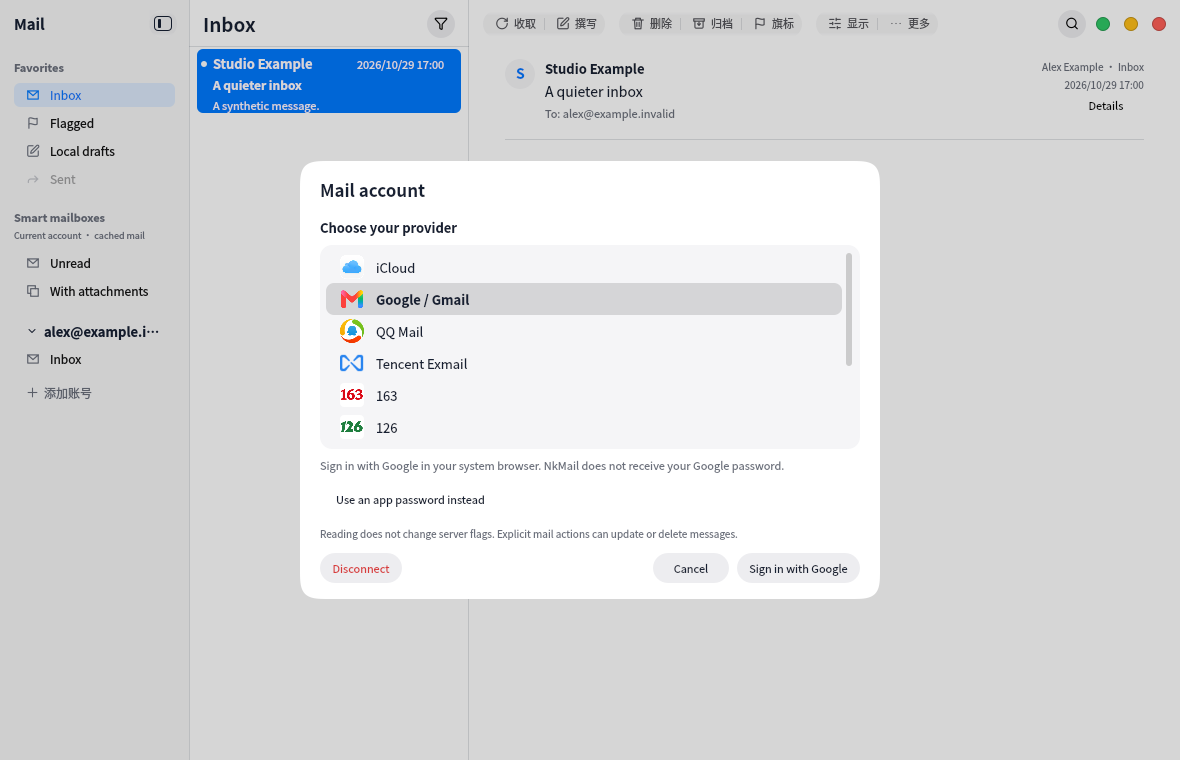
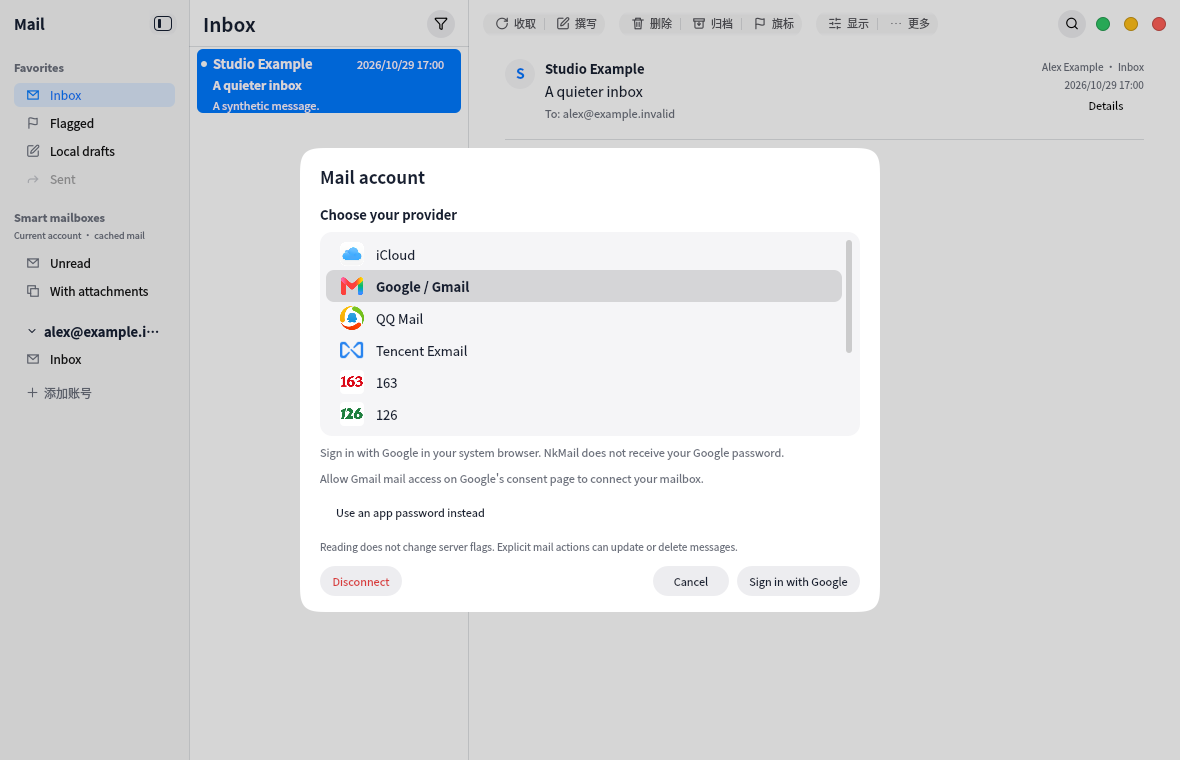
Distinguish Google consent failures and add safe request diagnostics

Changed region(s): [[0.2441, 0.1816, 0.7627, 0.8171]]

diff --git a/translations/nkmail_en.ts b/translations/nkmail_en.ts
@@ -248,6 +248,10 @@
             <source>Save account</source>
             <translation>Save account</translation>
         </message>
+        <message>
+            <source>Allow Gmail mail access on Google's consent page to connect your mailbox.</source>
+            <translation>Allow Gmail mail access on Google's consent page to connect your mailbox.</translation>
+        </message>
     </context>
     <context>
         <name>MailComposer</name>
@@ -2252,10 +2256,6 @@ Synthetic demo draft. Sending is disabled.</translation>
             <translation>Google did not authorize this account. Check the account or organization policy and try again.</translation>
         </message>
         <message>
-            <source>Google did not grant the required mail permission and offline access. Try signing in again.</source>
-            <translation>Google did not grant the required mail permission and offline access. Try signing in again.</translation>
-        </message>
-        <message>
             <source>Google did not return a verified email address.</source>
             <translation>Google did not return a verified email address.</translation>
         </message>
@@ -2282,6 +2282,14 @@ Synthetic demo draft. Sending is disabled.</translation>
         <message>
             <source>This sign-in response could not be accepted.</source>
             <translation>This sign-in response could not be accepted.</translation>
+        </message>
+        <message>
+            <source>Gmail mail access was not granted. Sign in again and allow Gmail mail access on Google's consent page.</source>
+            <translation>Gmail mail access was not granted. Sign in again and allow Gmail mail access on Google's consent page.</translation>
+        </message>
+        <message>
+            <source>Google did not return offline access. Sign in again and complete the consent process; if this persists, contact the application distributor.</source>
+            <translation>Google did not return offline access. Sign in again and complete the consent process; if this persists, contact the application distributor.</translation>
         </message>
     </context>
 </TS>

diff --git a/translations/nkmail_zh_CN.ts b/translations/nkmail_zh_CN.ts
@@ -248,6 +248,10 @@
             <source>Save account</source>
             <translation>保存账号</translation>
         </message>
+        <message>
+            <source>Allow Gmail mail access on Google's consent page to connect your mailbox.</source>
+            <translation>请在 Google 授权页面允许访问 Gmail 邮件，以连接邮箱。</translation>
+        </message>
     </context>
     <context>
         <name>MailComposer</name>
@@ -2252,10 +2256,6 @@ Alex
             <translation>Google 未授权此账号，请检查账号或组织政策后重试。</translation>
         </message>
         <message>
-            <source>Google did not grant the required mail permission and offline access. Try signing in again.</source>
-            <translation>Google 未授予所需的邮件权限和离线访问权限，请重新登录授权。</translation>
-        </message>
-        <message>
             <source>Google did not return a verified email address.</source>
             <translation>Google 未返回已验证的邮箱地址。</translation>
         </message>
@@ -2282,6 +2282,14 @@ Alex
         <message>
             <source>This sign-in response could not be accepted.</source>
             <translation>无法接受此登录响应。</translation>
+        </message>
+        <message>
+            <source>Gmail mail access was not granted. Sign in again and allow Gmail mail access on Google's consent page.</source>
+            <translation>尚未授予 Gmail 邮件访问权限。请重新登录，并在 Google 授权页面允许访问 Gmail 邮件。</translation>
+        </message>
+        <message>
+            <source>Google did not return offline access. Sign in again and complete the consent process; if this persists, contact the application distributor.</source>
+            <translation>Google 未返回离线访问权限。请重新登录并完成授权；如仍失败，请联系应用发布者。</translation>
         </message>
     </context>
 </TS>

diff --git a/qml/AccountDialog.qml b/qml/AccountDialog.qml
@@ -210,6 +210,12 @@ LiquidDialog {
                 text: qsTranslate("GoogleOAuth", "Google sign-in is unavailable in this build. Contact the application distributor.")
                 Layout.fillWidth: true; wrapMode: Text.Wrap; font.pixelSize: 11; color: AppTheme.mutedText
             }
+            Text {
+                objectName: "googleMailPermissionHint"
+                visible: root.step === 0 && root.googleProvider && root.googleAvailable
+                text: qsTr("Allow Gmail mail access on Google's consent page to connect your mailbox.")
+                Layout.fillWidth: true; wrapMode: Text.Wrap; font.pixelSize: 11; color: AppTheme.mutedText
+            }
             KosButton {
                 objectName: "googleAppPasswordOption"
                 visible: root.step === 0 && root.googleProvider && !root.submitting

diff --git a/tests/ui/tst_mail.qml b/tests/ui/tst_mail.qml
@@ -1131,6 +1131,7 @@ TestCase {
         verify(findChild(dialog, "googleUnavailableHint").visible)
         setupMock.googleConfigured = true
         tryCompare(signIn, "enabled", true) // No email or password required to open Google.
+        verify(findChild(dialog, "googleMailPermissionHint").visible)
         signIn.clicked()
         compare(setupMock.googleStarts, 1)
         verify(dialog.submitting)

diff --git a/src/auth/GoogleOAuth.cpp b/src/auth/GoogleOAuth.cpp
@@ -3,6 +3,7 @@
 #include <QCryptographicHash>
 #include <QDateTime>
 #include <QDesktopServices>
+#include <QDebug>
 #include <QEventLoop>
 #include <QFile>
 #include <QHostAddress>
@@ -31,7 +32,8 @@ constexpr auto Cancelled = QT_TRANSLATE_NOOP("GoogleOAuth", "Google sign-in was 
 constexpr auto TimedOut = QT_TRANSLATE_NOOP("GoogleOAuth", "Google sign-in timed out. Try again.");
 constexpr auto CallbackError = QT_TRANSLATE_NOOP("GoogleOAuth", "Could not open the local Google sign-in callback.");
 constexpr auto BrowserError = QT_TRANSLATE_NOOP("GoogleOAuth", "Could not open the system browser for Google sign-in.");
-constexpr auto MissingPermission = QT_TRANSLATE_NOOP("GoogleOAuth", "Google did not grant the required mail permission and offline access. Try signing in again.");
+constexpr auto MissingPermission = QT_TRANSLATE_NOOP("GoogleOAuth", "Gmail mail access was not granted. Sign in again and allow Gmail mail access on Google's consent page.");
+constexpr auto MissingOfflineAccess = QT_TRANSLATE_NOOP("GoogleOAuth", "Google did not return offline access. Sign in again and complete the consent process; if this persists, contact the application distributor.");
 constexpr auto IdentityError = QT_TRANSLATE_NOOP("GoogleOAuth", "Google did not return a verified email address.");
 constexpr auto CallbackText = QT_TRANSLATE_NOOP("GoogleOAuth", "Authorization received. You may return to NkMail.");
 constexpr auto BadCallbackText = QT_TRANSLATE_NOOP("GoogleOAuth", "This sign-in response could not be accepted.");
@@ -90,6 +92,16 @@ QJsonObject requestJson(const GoogleClient &client, const QUrl &url, const QUrlQ
     if (reply->bytesAvailable() > 64 * 1024) throw GoogleOAuthError(InvalidReply);
     const auto bytes = reply->readAll();
     const auto object = QJsonDocument::fromJson(bytes).object();
+    if (!client.fixture && (reply->error() != QNetworkReply::NoError || status != 200)) {
+        const char *stage = !form ? "identity" : form->queryItemValue("grant_type") == "refresh_token" ? "refresh" : "exchange";
+        const auto providerError = object.value("error").toString();
+        const auto knownErrors = QStringList{"invalid_grant", "invalid_client", "invalid_request", "invalid_scope", "access_denied", "temporarily_unavailable", "server_error"};
+        // Fixed stage, enum, status and allowlisted codes only. Never log URLs,
+        // response bodies, headers, identities, authorization codes or tokens.
+        qWarning().noquote() << "NkMail Google request failed:" << stage
+            << "network=" << int(reply->error()) << "http=" << status
+            << "provider=" << (knownErrors.contains(providerError) ? providerError : QStringLiteral("unspecified"));
+    }
     if (object.value("error").toString() == "invalid_grant") throw GoogleOAuthError(Reauthorize);
     if (object.value("error").toString() == "invalid_client") throw GoogleOAuthError(InvalidClient);
     if (reply->error() != QNetworkReply::NoError || status != 200) throw GoogleOAuthError(NetworkError);
@@ -368,7 +380,7 @@ void GoogleOAuthFlow::exchange(const QString &code) {
             const auto tokens = requestJson(client, client.tokenUrl, &form, {}, cancelled);
             const auto expiresAt = expiry(tokens); const auto access = tokens.value("access_token").toString();
             const auto refresh = tokens.value("refresh_token").toString();
-            if (!safeToken(refresh)) throw GoogleOAuthError(MissingPermission);
+            if (!safeToken(refresh)) throw GoogleOAuthError(MissingOfflineAccess);
             const auto identity = requestJson(client, client.identityUrl, nullptr, access, cancelled);
             email = identity.value("email").toString();
             if (!validEmail(email) || !identity.value("email_verified").toBool()) throw GoogleOAuthError(IdentityError);

diff --git a/tests/oauth/tst_google_oauth.cpp b/tests/oauth/tst_google_oauth.cpp
@@ -135,6 +135,7 @@ private slots:
         const QUrlQuery authorization(browserUrl);
         QCOMPARE(authorization.queryItemValue("code_challenge_method"), "S256");
         QCOMPARE(authorization.queryItemValue("access_type"), "offline");
+        QCOMPARE(authorization.queryItemValue("prompt"), "consent");
         QVERIFY(authorization.queryItemValue("scope").contains("https://mail.google.com/"));
         QVERIFY(authorization.queryItemValue("state").size() >= 43);
         const QUrl redirect(authorization.queryItemValue("redirect_uri"));
@@ -192,6 +193,16 @@ private slots:
             flow.start({}); const QUrlQuery auth(browser);
             callback(QUrl(auth.queryItemValue("redirect_uri")), target(auth));
             QTRY_COMPARE(failed.count(), 1); QCOMPARE(granted.count(), 0);
+            const auto message = failed.first().first().toString();
+            if (which == 1) {
+                QVERIFY(message.contains("offline access"));
+                QVERIFY(!message.contains("Gmail mail access was not granted"));
+                QCOMPARE(fixture.identityRequests, 0);
+            } else if (which == 2) {
+                QVERIFY(message.contains("Gmail mail access was not granted"));
+                QVERIFY(message.contains("allow Gmail mail access"));
+                QCOMPARE(fixture.identityRequests, 0);
+            }
         }
     }
     void concurrentRefreshIsSingleFlightAndIdentityBound() {

diff --git a/GOAL.md b/GOAL.md
@@ -472,4 +472,6 @@ The scoped local implementation is substantially complete, but real-provider rea
 - Project Desktop OAuth client is created and stored outside the repository; Gmail API enabled, required scopes declared, test user saved by owner. The project remains Testing. Production branding/privacy/domain verification and applicable Google restricted-scope review remain outstanding; public availability is not claimed.
 - Added mailio IMAP/SMTP XOAUTH2 with SASL-IR/continuations/error acknowledgment and no real sending. Account setup saves verified Google identities independently of mail-port reachability; failed persistence can retry without new consent. Standard-password providers retain auth-only IMAP/SMTP checks.
 - VM pinned-source Release build with bundled synthetic client configuration passed 10/10 CTest suites in 86.23s. New OAuth fixtures cover callback/state/PKCE/identity/refresh/concurrency/rotation/cancellation/redirects; controller tests assert keychain persistence without token serialization. UI save retry and one-click login pass. Reader timing regression fixed by waiting for complete Chromium parsing, retaining its 300,000-character assertion.
-- Curated synthetic screenshot: docs/progress/2026-11-04-google-oauth/sign-in.png. Host configured build launched for the user's real manual Google consent; automated tests ran only in VM. Real consent/mail synchronization result and current hosted release-gate remain pending. No real mail writes, password use or public credentials.
+- Curated synthetic screenshot: docs/progress/2026-11-04-google-oauth/sign-in.png. Host configured build launched for the user's real manual Google consent; automated tests ran only in VM. User reported that real account addition failed; the reported message combined missing mail scope and missing offline access, and the user sees two previously granted permissions without a checkbox. The actual missing part is not yet established. Split those error branches and added consent guidance without assuming a checkbox is shown. Real acceptance remains unresolved. Code and synthetic screenshot are pushed as 3c7d70a in PR #18; hosted release-gate for 3c7d70a passed (run 41752702276). No real mail writes, password use or public credentials.
+
+- Consent follow-up: supplied permission descriptions include full Gmail mail access, so a missing-checkbox explanation is not established. A later attempt reports secure-connection failure. Added credential-free request diagnostics limited to fixed stage, network enum, HTTP status and allowlisted provider error code; no URLs, responses, headers or token values are logged. Diagnostic build is running for manual retry. VM UI/i18n/catalog/OAuth checks passed 4/4 in 43.08s; the final diagnostic OAuth rebuild/check passed again. Real acceptance remains unresolved.

diff --git a/docs/progress/2026-11-04-google-oauth/README.md b/docs/progress/2026-11-04-google-oauth/README.md
@@ -28,3 +28,14 @@ users. Real user consent, public branding/privacy information and Google's produ
 verification remain separate acceptance steps. No real mail, credentials, raw logs, project
 console screenshots or build products are published here. No external sending or mailbox
 mutation was performed.
+
+
+Consent diagnostics now distinguish missing Gmail mail scope from a missing offline
+refresh token. The interface explains that mail access is required, without assuming
+Google always shows a checkbox. Existing Google grants can change the consent layout.
+A reported generic authorization failure does not establish which permission is missing;
+real acceptance remains pending until the separate error or successful retry is observed.
+
+The follow-up UI/i18n/catalog/OAuth checks passed 4/4 in 43.08s. Fixed diagnostic fields
+(stage, network enum, HTTP status and allowlisted provider code) help distinguish request
+failures without logging URLs, headers, response bodies, account identities or tokens.

diff --git a/docs/GOOGLE_OAUTH.md b/docs/GOOGLE_OAUTH.md
@@ -44,6 +44,16 @@ CI uses synthetic project JSON and never needs a real Google credential. Officia
 release automation must supply its project JSON securely; ordinary source CI artifacts
 are not automatically configured official Google releases.
 
+## Consent troubleshooting
+
+Google can grant basic sign-in identity without granting Gmail mail access. On the
+Google consent page, allow Gmail mail access to connect the mailbox. The layout can
+vary depending on existing grants; a checkbox is not always shown. NkMail
+checks the granted scope and refuses to save a mailbox without it. A separate message
+identifies a missing offline refresh token; do not confuse this with missing mail scope
+or a TCP connection failure. Retrying opens explicit consent again. NkMail never
+silently substitutes password authentication or accepts a partial grant as success.
+
 ## Token and protocol behavior
 
 Authorization uses PKCE S256, random state, a short-lived IPv4 loopback listener and
